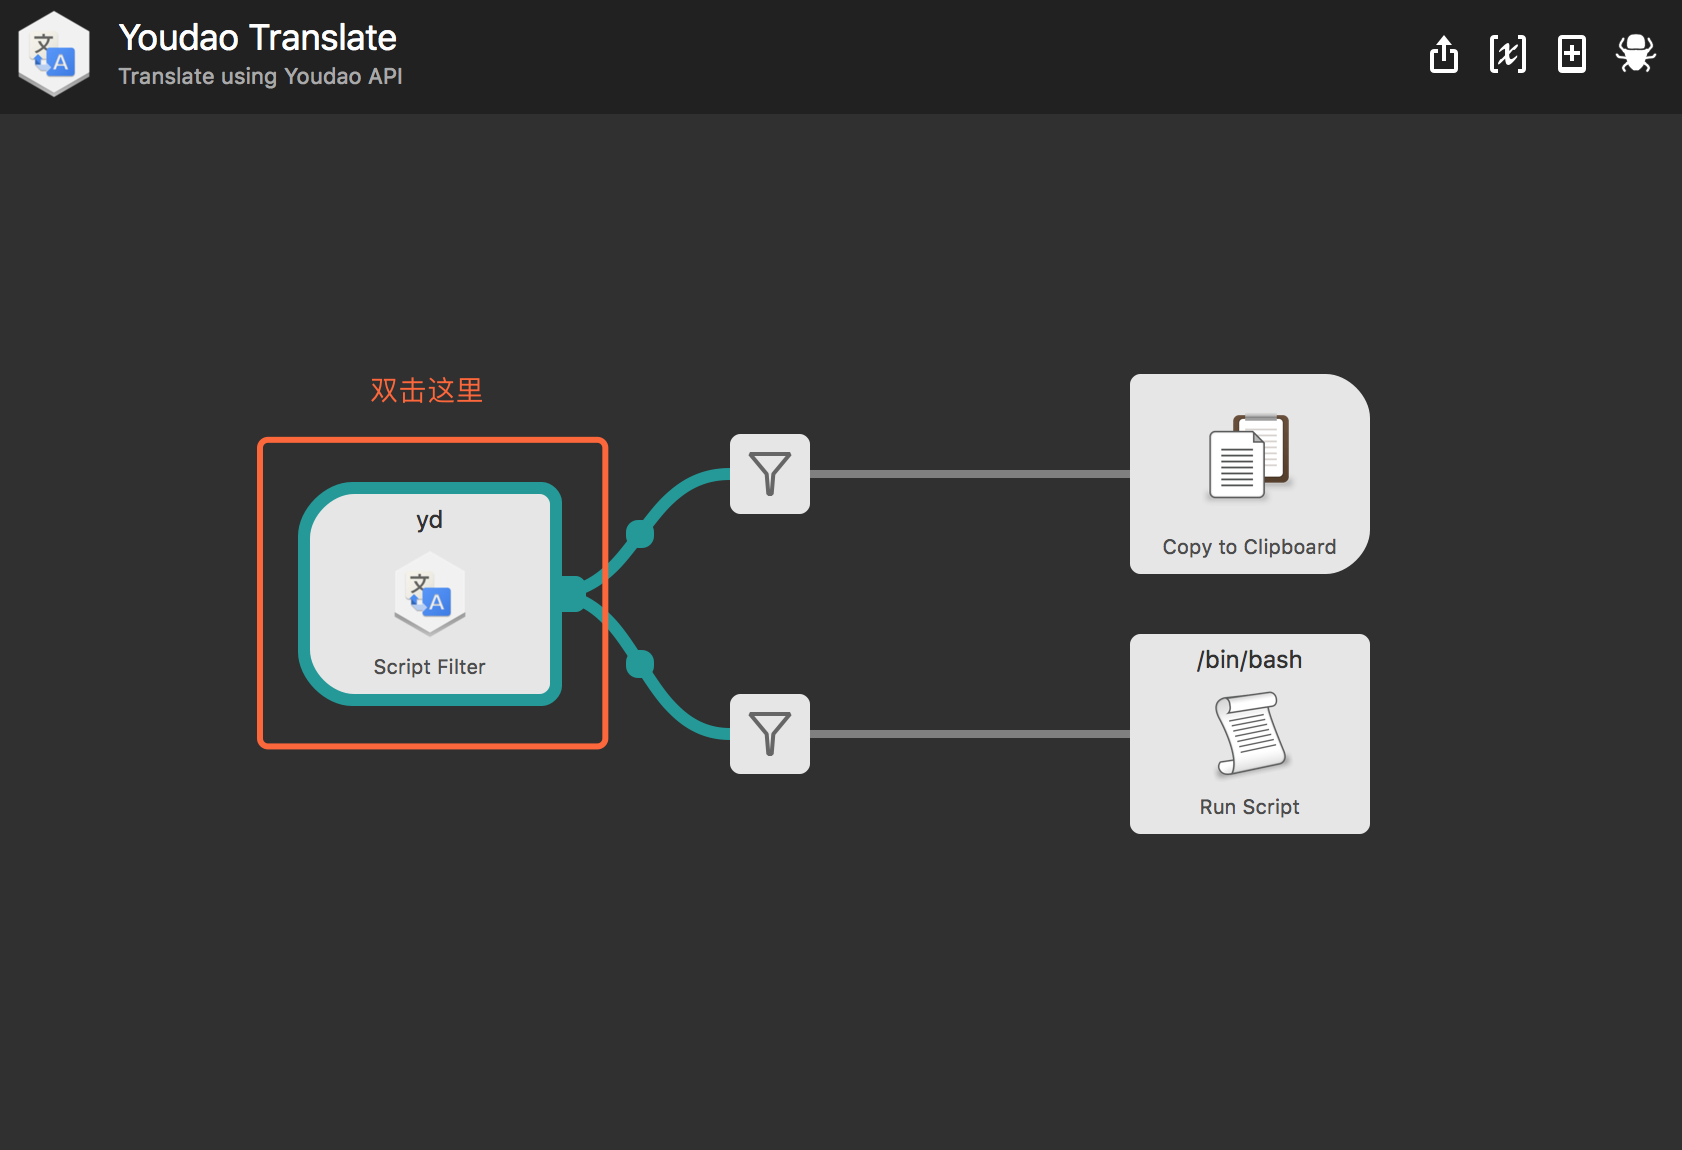
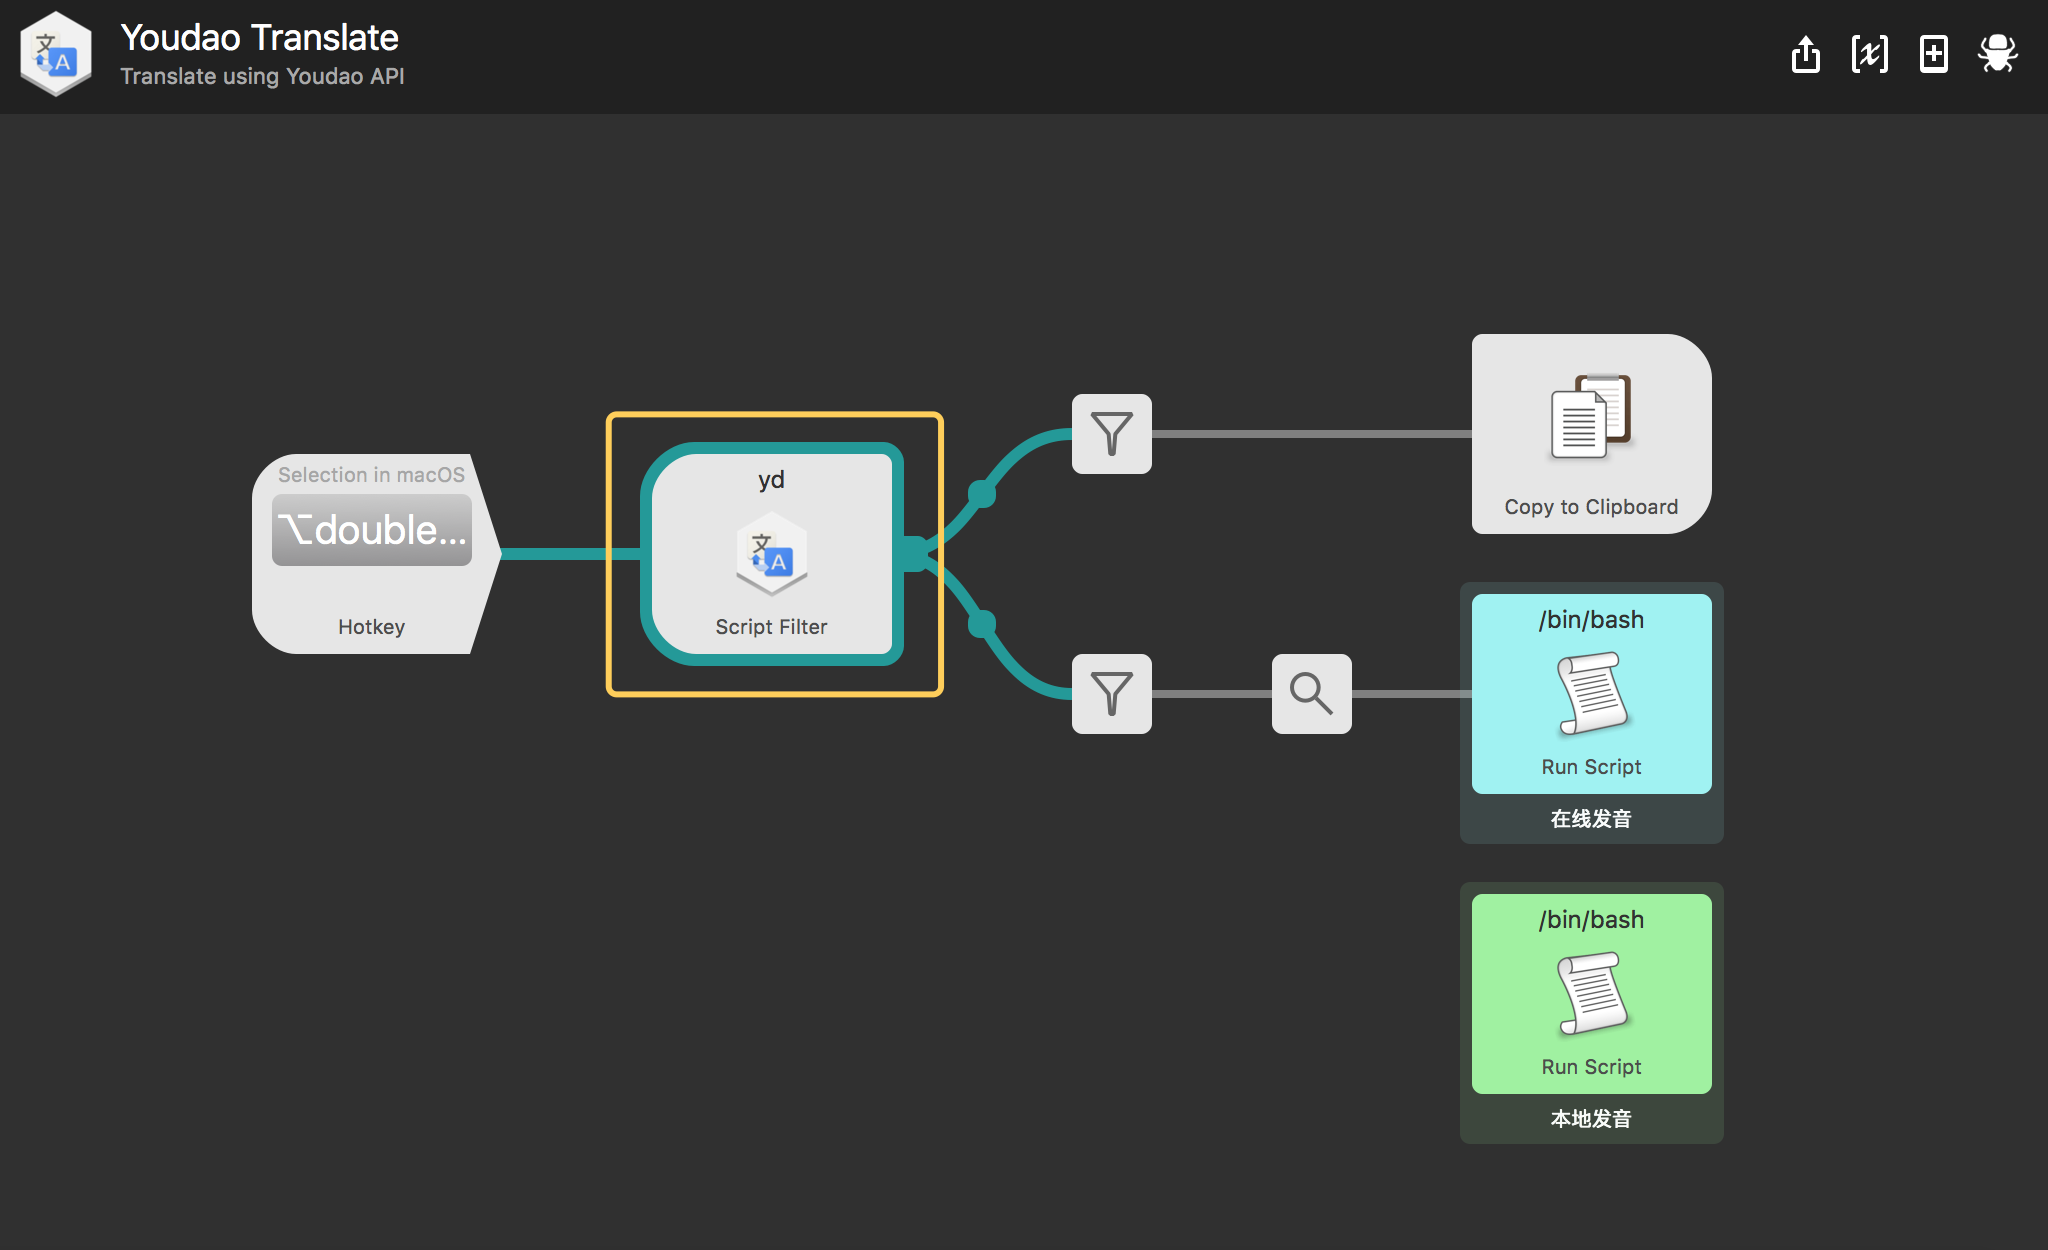
#9 更新 api， 优化发音，添加热键

Changed region(s): [[0.1237, 0.2435, 0.8347, 0.913], [0.0, 0.0, 0.2473, 0.0913], [0.8347, 0.0304, 0.9893, 0.0609]]

diff --git a/src/YoudaoTranslate.php b/src/YoudaoTranslate.php
@@ -43,7 +43,7 @@ class YoudaoTranslate
         $response = $this->workflow->request($url);
         $this->result   = json_decode($response);
 
-        if( empty($this->result) || ($this->result->errorCode !== "0" && $this->result->errorCode !== 0)){
+        if( empty($this->result) || (int)$this->result->errorCode !== 0){
             //证明翻译出错
             $this->addItem('翻译出错', $response, $response);
         }else{
@@ -178,31 +178,17 @@ class YoudaoTranslate
     }
 
     /**
-     * 组装请求地址
-     * @return String
-     */
-    private function getQueryUrl($query)
-    {
-        $api = 'http://fanyi.youdao.com/openapi.do?type=data&doctype=json&version=1.1&';
-
-        $key = $this->keys[array_rand($this->keys)];
-        $key['q'] = $query;
-
-        return $api.http_build_query($key);
-    }
-
-    /**
      * 组装网易智云请求地址
      * @return String
      */
     private function getOpenQueryUrl($query)
     {
-        $api = "https://openapi.youdao.com/api?from=auto&to=auto&";
+        $api = 'https://openapi.youdao.com/api?from=auto&to=auto&';
 
         $key = $this->keys[array_rand($this->keys)];
         $key['q'] = $query;
         $key['salt'] = strval(rand(1,100000));
-        $key['sign'] = md5($key["appKey"] . $key['q'] . $key['salt'] . $key['secret']);
+        $key['sign'] = md5($key['appKey'] . $key['q'] . $key['salt'] . $key['secret']);
 
         return $api.http_build_query($key);
     }

diff --git a/README.md b/README.md
@@ -18,32 +18,43 @@ YoudaoTranslate | 有道翻译
 
 ![screenshot_4](screenshot/screenshot_4.gif)
 
+#### 5. 双击 `option` 键可以翻译选中内容
+
 ### 二、 配置KEYS
 
-有能力的同学可以添加自己的API KEY, 有道翻译API 申请地址：[点此申请，很容易申请](http://fanyi.youdao.com/openapi?path=data-mode)
+> 2017年9月3日更新
+> 由于有道翻译 api 迁移到了有道智云，所以大家需要去[有道智云](http://ai.youdao.com/)进行注册然后创建应用了。步骤如下：
 
-申请后会得到 `API Key`和 `keyfrom`, 记下这两个值。
+1. 注册有道智云帐号
+2. 创建一个自然语言翻译服务
+3. 创建一个应用并绑定第二步创建的服务
+4. 这样就可以获得应用(appKey)和密钥(secret)了
 
 ![screenshot_5](screenshot/screenshot_5.png)
 
 ![screenshot_6](screenshot/screenshot_6.png)
 
-### 三、 Aflred 2
+### 三、 发音配置
+默认是使用有道词典的线上发音，如果网络不好，发音有延迟，可以切换为本地发音。方法很简单，只需要按图所示调整 alfred 数据流就可以了。
+![切换为本地发音](screenshot/screenshot_7.png)
 
+### 四、更新日志  
 
-请切到 Alfred-2 分支
-
-### 四、更新日志
-
-- 2016年3月24日
-
-  内置四个api key, 随机调用解决有道每小时1000次调用次数的限制。
-
+- 2017年9月3日
+  - 更新 api 为有道智云（thanks @newle）#12
+  - 优化发音，添加了线上发音
+  - 添加了双击翻译选中文字的热键
 - 2017年1月13日
 
   - 更新到Alfred3
   - 支持选中音标进行发音
   - 支持shift 预览Youdao网页
+
+- 2016年3月24日
+
+  内置四个api key, 随机调用解决有道每小时1000次调用次数的限制。
+
+
 
 
 #### 五、 使用库
